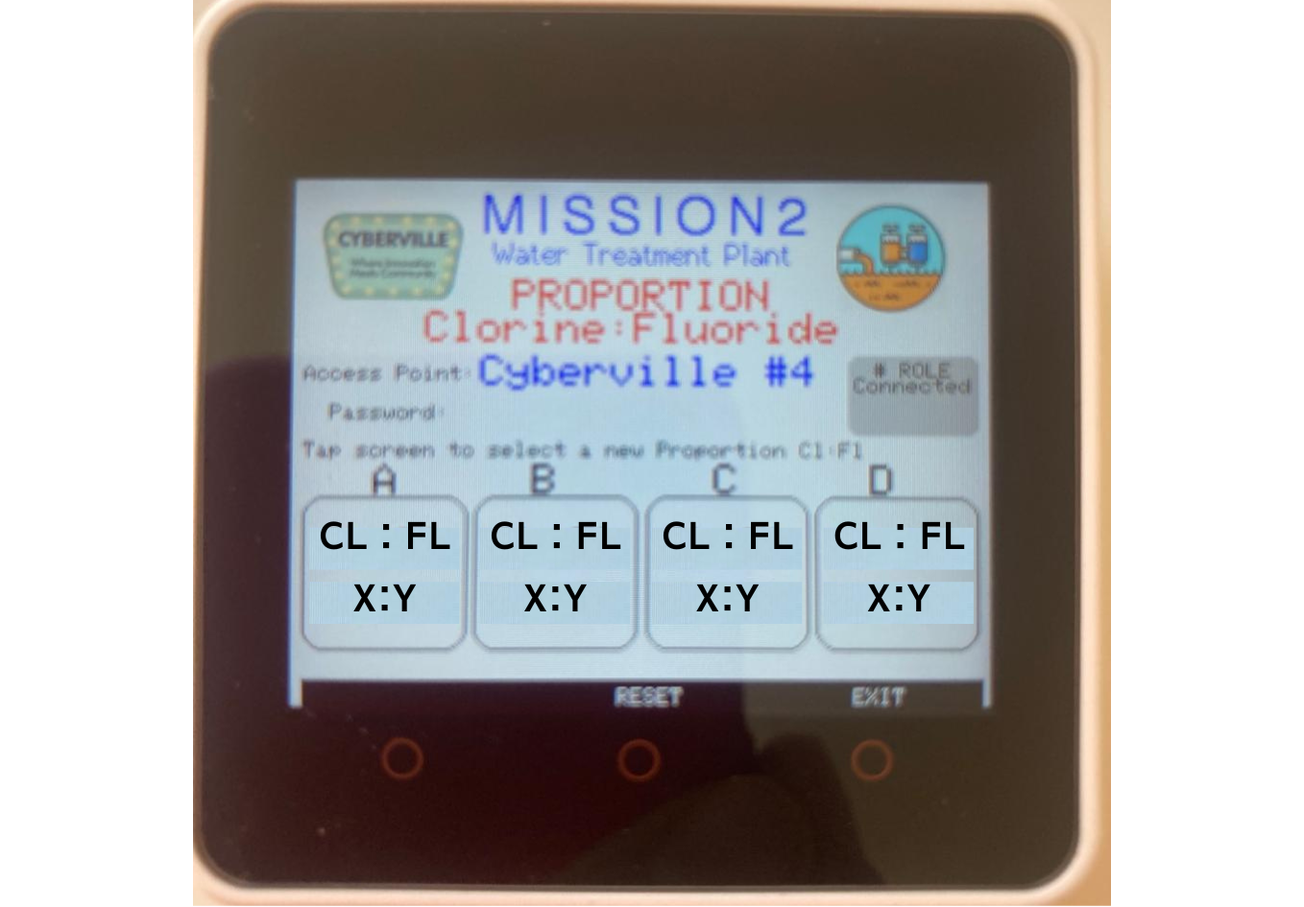
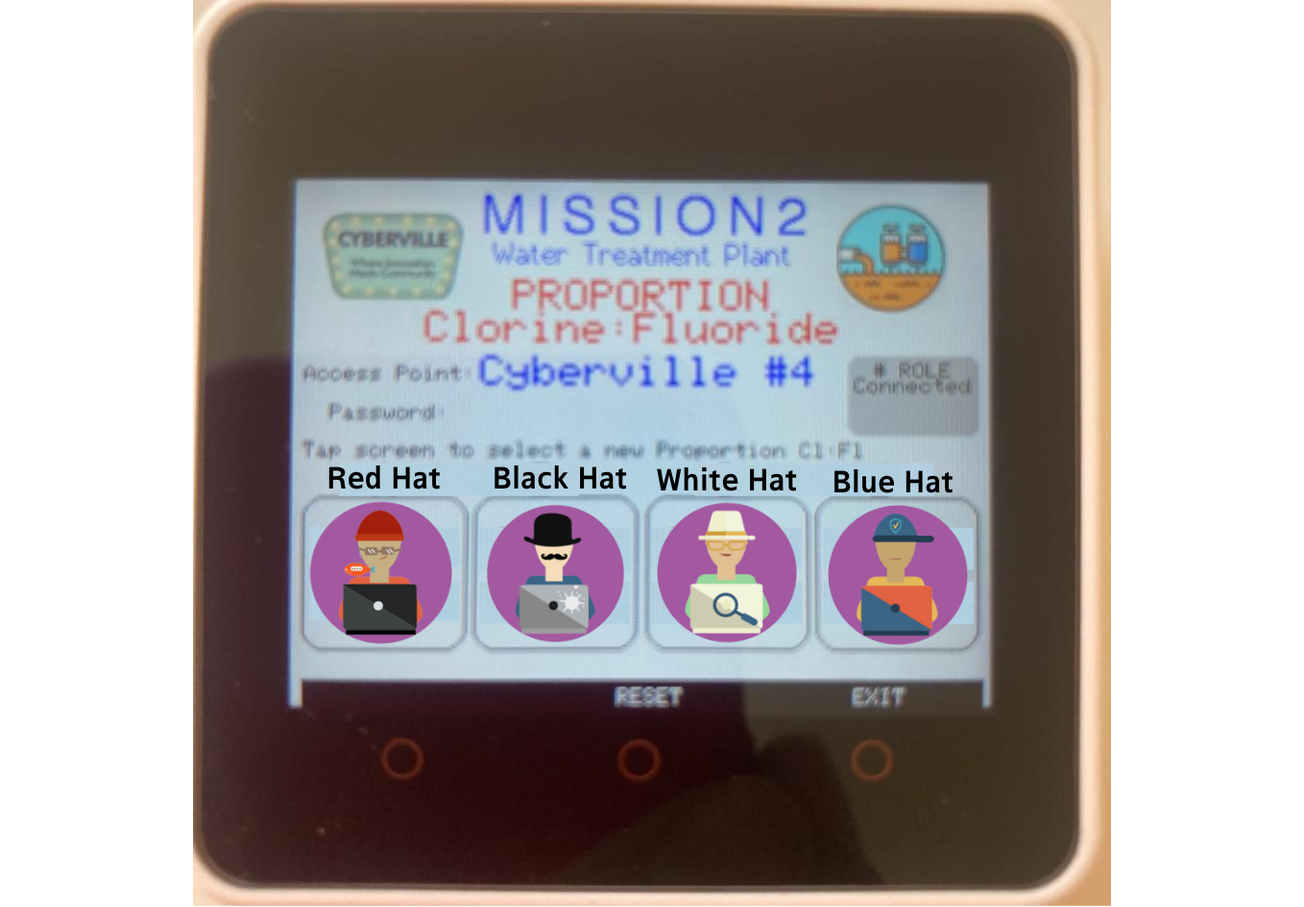
Update RSSI

Changed region(s): [[0.2165, 0.491, 0.7423, 0.7365]]

diff --git a/packaged/docs/static/mb/projects/bboard-tutorials-cyberville/ValuableData/3_Signal_Strength/README.html b/packaged/docs/static/mb/projects/bboard-tutorials-cyberville/ValuableData/3_Signal_Strength/README.html
@@ -1680,8 +1680,8 @@
 					</button>
 					
     <div class="ui text">
-        <h1 id="2_signal_strength-under-construction-">2_Signal_Strength . . . Under Construction!</h1><p>Hey there! We’re sure you’ll be really interested to know that the location of your Wi-Fi Access Point 📳 in your house is super important for cybersecurity!</p>
-<p>In this activity, we’ll have a little chat about Wi-Fi signal strength. The Received Signal Strength Indicator, or RSSI, is a handy little measurement that shows you how strong the signal is that you’re receiving.  We’ve got some great news for you! Our b.Board has a radio module and a block to read the power generated by the Access Point M5Core2 📳. Just a little heads-up: RSSI is indicated by a negative unit called dBm. The higher the number, the better the signal! But how is related to cybersecurity? Because of the Access Point 📳 in our house, we can be more or less vulnerable for our <strong><em>valuable data</em></strong>.</p>
+        <h1 id="2_signal_strength">2_Signal_Strength</h1><p>Hey there! We’re sure you’ll be really interested to know that the location of your Wi-Fi Access Point 📳 in your house is super important for cybersecurity!</p>
+<p>In this activity, we’ll have a little chat about Wi-Fi signal strength. The Received Signal Strength Indicator, or <strong>RSSI</strong>, is a handy little measurement that shows you how strong the signal is that you’re receiving.  We’ve got some great news for you! Our b.Board has a radio module and a block to read the power generated by the Access Point M5Core2 📳. Just a little heads-up: <strong>RSSI</strong> is indicated by a negative unit called dBm. The higher the number, the better the signal! But how is related to cybersecurity? Because of the Access Point 📳 in our house, we can be more or less vulnerable for our <strong><em>valuable data</em></strong>.</p>
 <p>Let’s see how that works, and don’t forget to answer the last test!</p>
 <p>We’re so excited to share some of the amazing benefits of placing your access point in the perfect spot!</p>
 <p><strong>1.</strong> Reduced signal leakage 🙉 When your access point is in the center of your home, the Wi-Fi signal is less likely to extend outside, keeping your private information safe and secure. This is great because it helps prevent people you don’t know, like your neighbors or even people with bad intentions, from detecting and trying to access your network.</p>
@@ -1690,16 +1690,17 @@
 <p><strong>4.</strong> Another great benefit of a centrally located access point 🐵 is that it makes it easier to monitor your entire network for any suspicious activity. This is because it can track connections across the whole area of coverage more effectively.</p>
 <p><strong>5.</strong> Secure guest network management 🔧🐒 by placing your access point in a central spot, you can easily manage your guest networks with confidence. This way, your guests can stay connected within a controlled area of your home, while you relax knowing they won’t access any sensitive parts of your internal network.</p>
 <h2 id="activity">Activity</h2><h3 id="-teachers">🧑🏫  <strong><em>Teachers</em></strong></h3><p>It is the responsibility of the teaching staff to provide students with an Access Point 📳 using the M5Core2 module for this activity. The Networking activity is the most appropriate choice as it requires only the creation of an Access Point 📳.
-It is also necessary to share with the students the following information regarding <strong>RSSI</strong> and signal strength.</p>
-<p></p>
-<p>To determine the strength of the signal in Cyberville, the teacher 🧑🏫 should walk out of the classroom or away from the b.boards.
-Students 🧑🎓 will read the signal strength based on their code.</p>
-<h3 id="-students-">🧑🎓 <strong>Students:</strong></h3><p><strong>1.</strong> Connect to the WiFi access point M5Core2 📳. The teacher must provide the AP name and password. Use the <em>Connect to WiFi</em> block. Remember, it should looks like this (✅ on screen b.Board):
-<img class="ui image" src="https://github.com/Brilliant-Labs/code.bl/blob/code_alpha/packaged/docs/static/mb/projects/bboard-tutorials-cyberville/Networking/1_Connecting/Connected_gif.gif?raw=true" alt="Connected_gif" title="Connected_gif" loading="lazy"><br>If you got a small <strong>x</strong> (❎ on screen b.Board), you are <strong><em>NOT</em></strong> connected.   </p>
+It is also necessary to share with the students the following information regarding <strong>RSSI</strong> and signal strength.
+ 
+To determine the strength of the signal in Cyberville, the teacher 🧑🏫 should walk out of the classroom or away from the b.boards.
+Students 🧑🎓 will read the signal strength based on their code, and Teacher’s location with the M5Core2.</p>
+<h3 id="-students">🧑🎓 <strong><em>Students</em></strong></h3><p><strong>1.</strong> Connect to the WiFi access point M5Core2 📳. The teacher must provide the AP name and password. Use the <em>Connect to WiFi</em> block. Remember, it should looks like this (✅ on screen b.Board):
+<img class="ui image" src="https://github.com/Brilliant-Labs/code.bl/blob/code_alpha/packaged/docs/static/mb/projects/bboard-tutorials-cyberville/Networking/1_Connecting/Connected_gif.gif?raw=true" alt="Connected_gif" title="Connected_gif" loading="lazy">  </p>
+<p>If you got a small <strong>x</strong> (❎ on screen b.Board), you are <strong><em>NOT</em></strong> connected.   </p>
 <p><strong>2.</strong> Use a block <em>on button A pressed</em>, inside add a <em>show string ()</em> block </p>
 <p><strong>3.</strong> Find the <em>Get the signal Strength</em> block in Cybersecurity blocks, and use it replacing the <em>hello!</em> word in Show String block.</p>
 <p><strong>4.</strong> Get the <strong>RSSI</strong> level and check how strong is the signal according to the Access Point 📳 location, get your own conclusion about the better plase to get a strong signal.</p>
-<p><strong>5.</strong> Let’s say this is your house… Where will you place your access point 📳 to protect your <strong>valuable data</strong>? __*<a target="_blank" rel="nofollow noopener" href="https://www.canva.com/design/DAGNuhZm2tc/EVbHU526nmgqkNacx0i0iQ/view?utm_content=DAGNuhZm2tc&amp;utm_campaign=designshare&amp;utm_medium=link&amp;utm_source=editor">Download</a> the planes.</p>
+<p><strong>5.</strong> Let’s say this is your house… Where will you place your Access Point 📳 to protect your <strong>valuable data</strong>? <a target="_blank" rel="nofollow noopener" href="https://www.canva.com/design/DAGNuhZm2tc/EVbHU526nmgqkNacx0i0iQ/view?utm_content=DAGNuhZm2tc&amp;utm_campaign=designshare&amp;utm_medium=link&amp;utm_source=editor">Download</a>, and print the planes.</p>
 <p></p>
 <p></p>
 <h2 id="code-example">Code Example</h2><p>You can <strong>download</strong> an example code for this activity in this web site: <code>https://alpha.brilliantlabs.ca/documents/cybersec/Cyber-Security-Activity-8.hex</code></p>

diff --git a/packaged/docs/static/mb/projects/bboard-tutorials-cyberville/ValuableData/2_Get_Reliable_Information/README.html b/packaged/docs/static/mb/projects/bboard-tutorials-cyberville/ValuableData/2_Get_Reliable_Information/README.html
@@ -1685,9 +1685,9 @@
 <p><strong>🧪 Fluoride</strong> is often added to drinking water to prevent tooth decay. The optimal concentration of <strong>🧪 Fluoride</strong> in drinking water is usually around 0.7 to 1.2 mg/L, although this can vary depending on local regulations and recommendations.</p>
 <p>The ratio of <strong>🧪 Chlorine</strong> to <strong>🧪 Fluoride</strong> would then depend on the specific concentrations used in the treatment process, and it’s not necessarily a fixed ratio. In some cases, there might not even be a direct correlation between the two as they serve different purposes in water treatment.</p>
 <p>The ratio of <strong>🧪Chlorine</strong> to <strong>🧪Fluoride</strong> in treated water can vary depending on several factors including the specific requirements of the water treatment facility, local regulations, and the source water quality.</p>
-<p>Students and teachers, we just wanted to remind you that it’s important to choose a true and reliable source of information on Cyberville network. The web sites provided for this activity are not real, but student should be choose the best and reliable information to obtain the right ratio according to the information, Not all the information is reliable and you can fail in the try!! Be careful with the information that you select. Have fun!!</p>
+<p>Students 🧑🎓 and teachers 🧑🏫, we just wanted to remind you that it’s important to choose a true and <strong><em>reliable source of information</em></strong> on Cyberville network. The web sites provided for this activity are not real, but student should be choose the best and reliable information to obtain the right ratio according to the information, and no expose your <strong><em>valuable information</em></strong>, Not all the information is reliable and you can fail in the try!! Be careful with the information that you select… and have fun!!</p>
 <p>To develop this activity follow the next steps. </p>
-<h2 id="-teachers-"><strong>🧑🏫 Teachers:</strong></h2><p>The <strong>🧑🏫 Teacher</strong> will choose between four diferent proportions on the M5Core2 screen, which will display the M5Core2 for Mission 2 as A, B, C, or D. This ratio will be secret to the 🧑🎓 students, but they can find information reliable or fake on the web site provided by the Access Point! </p>
+<h2 id="-teachers-"><strong>🧑🏫 Teachers:</strong></h2><p>The <strong>🧑🏫 Teacher</strong> will choose between four diferent sources of information on the M5Core2 screen, which will display the M5Core2 for Mission 2 as Red Hat, Black Hat, White Hat, or Blue Hat. This seelctrion will be secret to the 🧑🎓 students, but they can find information on the webpages generated by the Access Point 📳.</p>
 <p></p>
 <p>Remember that there are three differents ways to setup passwords on M5Core2 for Cyberville network. Agree with student which password are you going to use for this activity. </p>
 <ul>
@@ -1698,14 +1698,31 @@
 <li><p><a target="_blank" rel="nofollow noopener" href="https://www.canva.com/design/DAGJhzixXtc/zuFnnSe0t3ZZR298o1uEjg/watch?utm_content=DAGJhzixXtc&amp;utm_campaign=designshare&amp;utm_medium=link&amp;utm_source=editor"><strong>Custom Password</strong></a>. We highly recommend this option to involve the students, just press middle button on M5Core2, and enter the agreed 8 characters of the password agreed between the student and the teacher, for example <strong>BL_cyb24</strong>, at the end please press the middle button again for three seconds to set it. That is all!</p>
 </li>
 </ul>
-<h2 id="-students-"><strong>🧑🎓 Students:</strong></h2><ol>
-<li>Be sure that you are connected to the Cyberville  📳 Access Point, according to the infornmation agree with the teacher.
-If you get a ✅, you are connected.<br></li>
-<li>Get some information in the web page privided by the  📳 Access Point. remember that you computer needs to be in the same Cyberville network  which it IP address is 192.168.4.1.</li>
-<li>Use your Water Plant Calibration developed in the previous activity as base of your new code.</li>
-<li>Modify the code to provied the right ratio for <strong>🧪 Chlorine</strong> and <strong>🧪 Fluoride</strong> on the water treatment plant.</li>
-<li>Obtain some clues on the webpage to get your ratio answer and send it to the  📳 Access Point to know if you fail or success for this activity.</li>
-</ol>
+<h2 id="-students-"><strong>🧑🎓 Students:</strong></h2><p><strong>1.</strong> Be sure that you are connected to the Cyberville  📳 Access Point, according to the infornmation agree with the teacher.
+If you get a ✅, you are connected.<br>
+<strong>2.</strong> Get some information in the web page provided by the Access Point 📳. Remember that you computer needs to be in the same Cyberville network.
+<strong>3.</strong> Use your Water Plant Calibration developed in the previous activity as base of your new code.
+<strong>4.</strong> Modify the code to provied the right ratio for <strong>🧪 Chlorine</strong> and <strong>🧪 Fluoride</strong> on the water treatment plant, you can see the example code below.
+<strong>5.</strong> Obtain some clues on the webpage to get your ratio answer and send it to the Access Point 📳 to know if you fail or success for this activity.</p>
+<h2 id="code-example">Code Example</h2><p>You can <strong>download</strong> an example code for this activity in this web site: <code>https://alpha.brilliantlabs.ca/documents/cybersec/Cyber-Security-Activity-8.hex</code></p>
+<p>Or use this code example to test the right ratio and save the Water Treatment Plant.</p>
+<p>Allways be sure that you are connected in the right Cyberville network, before you try a new code.</p>
+<pre><code class="lang-blocks">input.onButtonPressed(Button.A, function () {
+    for (let Count = 0; Count &lt;= 9; Count++) {
+        FL_Strip.setPixelColor(Count + (-10 + Cybersec.indexfl(Index_FL.one)), neopixel.colors(NeoPixelColors.Green))
+        CL_Strip.setPixelColor(Count + (10 - Cybersec.indexcl(Index_CL.one)), neopixel.colors(NeoPixelColors.Blue))
+    }
+    Full_Strip.show()
+    Cybersec.MissionWater(Cybersec.blixel_indexR(BLiXelIndexR.one))
+})
+let CL_Strip: neopixel.Strip = null
+let FL_Strip: neopixel.Strip = null
+let Full_Strip: neopixel.Strip = null
+Cybersec.WifiConnect(&quot;Cyberville #1&quot;, &quot;&quot;)
+Full_Strip = neopixel.create(DigitalPin.P2, 30, NeoPixelMode.RGB)
+FL_Strip = Full_Strip.range(0, 10)
+CL_Strip = Full_Strip.range(20, 10)
+</code></pre>
 
     </div>
 

diff --git a/packaged/docs/static/mb/projects/bboard-tutorials-cyberville/ValuableData/1_Water_Plant_Calibration/README.html b/packaged/docs/static/mb/projects/bboard-tutorials-cyberville/ValuableData/1_Water_Plant_Calibration/README.html
@@ -1680,42 +1680,35 @@
 					</button>
 					
     <div class="ui text">
-        <h1 id="1_valuable-data-under-construction-">1_VALUABLE DATA … Under Construction!</h1><p><strong>Valuable Data</strong> is a really important topic in Cybersecurity. It’s all about keeping and obtaining information safe and secure on a network. It’s not just about digital data, but also about making sure social, mental, and technological security for you, your parents, and your Cyberville. It’s so important to know where the information is stored, what the source is, how to find it, and try to protect it from unauthorized access and misuse. We’re here to help you with all of that!</p>
-<p>Let’s learn together about some of the most common attacks on our Valuable Data. Once we’ve done that, we’ll solve the Second Mission, “Polluted Water - Water Treatment Plant Under Attack!”</p>
+        <h1 id="1_valuable-data">1_VALUABLE DATA</h1><p><strong>Valuable Data</strong> is a really important topic in Cybersecurity. It’s all about keeping and obtaining information safe and secure on a network. It’s not just about digital data, but also about making sure social, mental, and technological security for you, your parents, and your Cyberville. It’s so important to know where the information is stored, what the source is, how to find it, and try to protect it from unauthorized access and misuse. We’re here to help you with all of that!</p>
+<p>Let’s learn together about some of the most common attacks on our <strong><em>Valuable Data</em></strong>. Once we’ve done that, we’ll solve the Second Mission, “Polluted Water - Water Treatment Plant Under Attack!”</p>
 <h2 id="activity">Activity</h2><p>Let’s start!   </p>
 <p>We’ve made it really easy for you to recreate the awesome environment from Mission 2 while learning about Cybersecurity. All you have to do is:</p>
 <p><strong>1.</strong> <a target="_blank" rel="nofollow noopener" href="https://www.canva.com/design/DAGJhxRPFpY/D54nS2FDqO65RD4bMEKsbQ/view?utm_content=DAGJhxRPFpY&amp;utm_campaign=designshare&amp;utm_medium=link&amp;utm_source=editor">Download</a>, print and cover the b.board for Mission 2.  </p>
 <p></p>
 <p><img class="ui image" src="https://github.com/Brilliant-Labs/code.bl/blob/code_alpha/packaged/docs/static/mb/projects/bboard-tutorials-cyberville/ValuableData/1_Water_Plant_Calibration/Cover_Gif_M2.gif?raw=true" alt="Cover" title="Cover for M2." loading="lazy"></p>
 <h2 id="-teachers-">🧑🏫 <strong>Teachers:</strong></h2><p>Teachers will guide the proccess to obtain the neopixel level bar from the students.</p>
-<h2 id="-students-">🧑🎓 <strong>Students:</strong></h2><p>In this example, you’ll find a suggested Water Plant Calibration environment for this activity. But don’t be afraid to get creative! You can easily recreate two bars of neopixels for 10 BLixels each, in whatever way you like. Have fun!</p>
+<h2 id="-students-">🧑🎓 <strong>Students:</strong></h2><p>In this example, you’ll find a suggested Water Plant Calibration environment for this activity. But don’t be afraid to get creative! You can easily recreate two bars of neopixels for 10 BLixels each, in whatever way you like. <em>Have fun!</em></p>
 <p><img class="ui image" src="https://github.com/Brilliant-Labs/code.bl/blob/code_alpha/packaged/docs/static/mb/projects/bboard-tutorials-cyberville/ValuableData/1_Water_Plant_Calibration/LevelBar.gif?raw=true" alt="Level_Bar" title="Level Bar." loading="lazy"></p>
 <h2 id="code-example">Code Example</h2><p>You can <strong>download</strong> the code for this activity <a target="_blank" rel="nofollow noopener" href="https://alpha.brilliantlabs.ca/documents/cybersec/Cyber-Security-Activity-7A.hex">here</a>, or you can go to download from: <code>https://alpha.brilliantlabs.ca/documents/cybersec/Cyber-Security-Activity-7A.hex</code>.</p>
-<p>Or use this code example is to connect the b.Board to M5Core2.</p>
+<p>Or use this code as example. Please pay attention that strip is connected to P2, and the levels are <strong>0 for 🧪 Chlorine</strong> and <strong>0 for 🧪 Fluoride</strong>. You should change this values according to the next activity <strong><em>“Get Reliable Information”</em></strong>.</p>
 <pre><code class="lang-blocks">input.onButtonPressed(Button.A, function () {
-    General_Strip.clear()
-    General_Strip.show()
-    for (let Cont1 = 0; Cont1 &lt;= 9; Cont1++) {
-        CL_Strip.setPixelColor(Cont1 + (-10 + 5), neopixel.colors(NeoPixelColors.Blue))
+    for (let Count = 0; Count &lt;= 9; Count++) {
+        FL_Strip.setPixelColor(Count + (-10 + Flouride), neopixel.colors(NeoPixelColors.Green))
+        CL_Strip.setPixelColor(Count + (10 - Chloride), neopixel.colors(NeoPixelColors.Blue))
     }
-    CL_Strip.show()
-    for (let Cont2 = 0; Cont2 &lt;= 9; Cont2++) {
-        FL_Strip.setPixelColor(Cont2 + (10 - 5), neopixel.colors(NeoPixelColors.Green))
-    }
-    FL_Strip.show()
+    Full_Strip.show()
 })
-input.onLogoEvent(TouchButtonEvent.Pressed, function () {
-    CL_Strip.clear()
-    CL_Strip.show()
-    FL_Strip.clear()
-    FL_Strip.show()
-})
-let FL_Strip: neopixel.Strip = null
+let Chloride = 0
+let Flouride = 0
 let CL_Strip: neopixel.Strip = null
-let General_Strip: neopixel.Strip = null
-General_Strip = neopixel.create(DigitalPin.P2, 30, NeoPixelMode.RGB)
-CL_Strip = General_Strip.range(0, 10)
-FL_Strip = General_Strip.range(20, 10)</code></pre>
+let FL_Strip: neopixel.Strip = null
+let Full_Strip: neopixel.Strip = null
+Full_Strip = neopixel.create(DigitalPin.P2, 30, NeoPixelMode.RGB)
+FL_Strip = Full_Strip.range(0, 10)
+CL_Strip = Full_Strip.range(20, 10)
+Flouride = 0
+Chloride = 0</code></pre>
 
     </div>
 

diff --git a/packaged/docs/static/mb/projects/bboard-tutorials-cyberville/ValuableData/2_Get_Reliable_Information/README.md b/packaged/docs/static/mb/projects/bboard-tutorials-cyberville/ValuableData/2_Get_Reliable_Information/README.md
@@ -10,15 +10,16 @@ The ratio of __🧪 Chlorine__ to __🧪 Fluoride__ would then depend on the spe
 
 The ratio of __🧪Chlorine__ to __🧪Fluoride__ in treated water can vary depending on several factors including the specific requirements of the water treatment facility, local regulations, and the source water quality.
 
-Students and teachers, we just wanted to remind you that it's important to choose a true and reliable source of information on Cyberville network. The web sites provided for this activity are not real, but student should be choose the best and reliable information to obtain the right ratio according to the information, Not all the information is reliable and you can fail in the try!! Be careful with the information that you select. Have fun!!
+Students 🧑🎓 and teachers 🧑🏫, we just wanted to remind you that it's important to choose a true and __*reliable source of information*__ on Cyberville network. The web sites provided for this activity are not real, but student should be choose the best and reliable information to obtain the right ratio according to the information, and no expose your __*valuable information*__, Not all the information is reliable and you can fail in the try!! Be careful with the information that you select... and have fun!!
 
 To develop this activity follow the next steps. 
 
 ## __🧑🏫 Teachers:__
 
-The __🧑🏫 Teacher__ will choose between four diferent proportions on the M5Core2 screen, which will display the M5Core2 for Mission 2 as A, B, C, or D. This ratio will be secret to the 🧑🎓 students, but they can find information reliable or fake on the web site provided by the Access Point! 
+The __🧑🏫 Teacher__ will choose between four diferent sources of information on the M5Core2 screen, which will display the M5Core2 for Mission 2 as Red Hat, Black Hat, White Hat, or Blue Hat. This seelctrion will be secret to the 🧑🎓 students, but they can find information on the webpages generated by the Access Point 📳.
 
-<img src="https://github.com/Brilliant-Labs/code.bl/blob/code_alpha/packaged/docs/static/mb/projects/bboard-tutorials-cyberville/ValuableData/2_Get_Reliable_Information/M2_M5core2.png?raw=true" alt="M2" title="Mission 2 in M5Core2" width="300" />
+<img src="https://github.com/Brilliant-Labs/code.bl/blob/code_alpha/packaged/docs/static/mb/projects/bboard-tutorials-cyberville/ValuableData/2_Get_Reliable_Information/M2_M5core2.png?raw=true" alt="M2" title="Mission 2 in M5Core2" width="450" />
+
 
 Remember that there are three differents ways to setup passwords on M5Core2 for Cyberville network. Agree with student which password are you going to use for this activity. 
 
@@ -31,10 +32,37 @@ Remember that there are three differents ways to setup passwords on M5Core2 for 
 
 ## __🧑🎓 Students:__
 
-1. Be sure that you are connected to the Cyberville  📳 Access Point, according to the infornmation agree with the teacher.
+__1.__ Be sure that you are connected to the Cyberville  📳 Access Point, according to the infornmation agree with the teacher.
 If you get a ✅, you are connected.  
 <img src="https://github.com/Brilliant-Labs/code.bl/blob/code_alpha/packaged/docs/static/mb/projects/bboard-tutorials-cyberville/Networking/1_Connecting/Connected_gif.gif?raw=true" alt="Connected_gif" title="If you get a ✅, you are connected to Access Point" width="300" />
-2. Get some information in the web page privided by the  📳 Access Point. remember that you computer needs to be in the same Cyberville network  which it IP address is 192.168.4.1.
-3. Use your Water Plant Calibration developed in the previous activity as base of your new code.
-4. Modify the code to provied the right ratio for __🧪 Chlorine__ and __🧪 Fluoride__ on the water treatment plant.
-5. Obtain some clues on the webpage to get your ratio answer and send it to the  📳 Access Point to know if you fail or success for this activity.
+__2.__ Get some information in the web page provided by the Access Point 📳. Remember that you computer needs to be in the same Cyberville network.
+__3.__ Use your Water Plant Calibration developed in the previous activity as base of your new code.
+__4.__ Modify the code to provied the right ratio for __🧪 Chlorine__ and __🧪 Fluoride__ on the water treatment plant, you can see the example code below.
+__5.__ Obtain some clues on the webpage to get your ratio answer and send it to the Access Point 📳 to know if you fail or success for this activity.
+
+## Code Example
+
+You can __download__ an example code for this activity in this web site: `https://alpha.brilliantlabs.ca/documents/cybersec/Cyber-Security-Activity-8.hex`
+
+Or use this code example to test the right ratio and save the Water Treatment Plant.
+
+Allways be sure that you are connected in the right Cyberville network, before you try a new code.
+
+```blocks
+input.onButtonPressed(Button.A, function () {
+    for (let Count = 0; Count <= 9; Count++) {
+        FL_Strip.setPixelColor(Count + (-10 + Cybersec.indexfl(Index_FL.one)), neopixel.colors(NeoPixelColors.Green))
+        CL_Strip.setPixelColor(Count + (10 - Cybersec.indexcl(Index_CL.one)), neopixel.colors(NeoPixelColors.Blue))
+    }
+    Full_Strip.show()
+    Cybersec.MissionWater(Cybersec.blixel_indexR(BLiXelIndexR.one))
+})
+let CL_Strip: neopixel.Strip = null
+let FL_Strip: neopixel.Strip = null
+let Full_Strip: neopixel.Strip = null
+Cybersec.WifiConnect("Cyberville #1", "")
+Full_Strip = neopixel.create(DigitalPin.P2, 30, NeoPixelMode.RGB)
+FL_Strip = Full_Strip.range(0, 10)
+CL_Strip = Full_Strip.range(20, 10)
+
+```

diff --git a/packaged/docs/static/mb/projects/bboard-tutorials-cyberville/ValuableData/3_Signal_Strength/README.md b/packaged/docs/static/mb/projects/bboard-tutorials-cyberville/ValuableData/3_Signal_Strength/README.md
@@ -1,8 +1,8 @@
-# 2_Signal_Strength . . . Under Construction!
+# 2_Signal_Strength
 
 Hey there! We're sure you'll be really interested to know that the location of your Wi-Fi Access Point 📳 in your house is super important for cybersecurity!
 
-In this activity, we'll have a little chat about Wi-Fi signal strength. The Received Signal Strength Indicator, or RSSI, is a handy little measurement that shows you how strong the signal is that you're receiving.  We've got some great news for you! Our b.Board has a radio module and a block to read the power generated by the Access Point M5Core2 📳. Just a little heads-up: RSSI is indicated by a negative unit called dBm. The higher the number, the better the signal! But how is related to cybersecurity? Because of the Access Point 📳 in our house, we can be more or less vulnerable for our __*valuable data*__.
+In this activity, we'll have a little chat about Wi-Fi signal strength. The Received Signal Strength Indicator, or __RSSI__, is a handy little measurement that shows you how strong the signal is that you're receiving.  We've got some great news for you! Our b.Board has a radio module and a block to read the power generated by the Access Point M5Core2 📳. Just a little heads-up: __RSSI__ is indicated by a negative unit called dBm. The higher the number, the better the signal! But how is related to cybersecurity? Because of the Access Point 📳 in our house, we can be more or less vulnerable for our __*valuable data*__.
 
 Let's see how that works, and don't forget to answer the last test!
 
@@ -23,15 +23,14 @@ __5.__ Secure guest network management 🔧🐒 by placing your access point in 
 ### 🧑🏫  __*Teachers*__
 It is the responsibility of the teaching staff to provide students with an Access Point 📳 using the M5Core2 module for this activity. The Networking activity is the most appropriate choice as it requires only the creation of an Access Point 📳.
 It is also necessary to share with the students the following information regarding __RSSI__ and signal strength.
-
-<img src="https://github.com/Brilliant-Labs/code.bl/blob/code_alpha/packaged/docs/static/mb/projects/bboard-tutorials-cyberville/ValuableData/3_Signal_Strength/RSSI.png?raw=true" alt="RSSI" title="RSSI" width="450" />
-
+<img src="https://github.com/Brilliant-Labs/code.bl/blob/code_alpha/packaged/docs/static/mb/projects/bboard-tutorials-cyberville/ValuableData/3_Signal_Strength/RSSI.png?raw=true" alt="RSSI" title="RSSI" width="450" /> 
 To determine the strength of the signal in Cyberville, the teacher 🧑🏫 should walk out of the classroom or away from the b.boards.
-Students 🧑🎓 will read the signal strength based on their code.
+Students 🧑🎓 will read the signal strength based on their code, and Teacher's location with the M5Core2.
 
-### 🧑🎓 __Students:__
+### 🧑🎓 __*Students*__
 __1.__ Connect to the WiFi access point M5Core2 📳. The teacher must provide the AP name and password. Use the *Connect to WiFi* block. Remember, it should looks like this (✅ on screen b.Board):
 ![Connected_gif](https://github.com/Brilliant-Labs/code.bl/blob/code_alpha/packaged/docs/static/mb/projects/bboard-tutorials-cyberville/Networking/1_Connecting/Connected_gif.gif?raw=true "Connected_gif")  
+
 If you got a small __x__ (❎ on screen b.Board), you are __*NOT*__ connected.   
   
 __2.__ Use a block *on button A pressed*, inside add a *show string ()* block 
@@ -40,12 +39,11 @@ __3.__ Find the *Get the signal Strength* block in Cybersecurity blocks, and use
 
 __4.__ Get the __RSSI__ level and check how strong is the signal according to the Access Point 📳 location, get your own conclusion about the better plase to get a strong signal.
 
-__5.__ Let's say this is your house... Where will you place your access point 📳 to protect your __valuable data__? __*[Download](https://www.canva.com/design/DAGNuhZm2tc/EVbHU526nmgqkNacx0i0iQ/view?utm_content=DAGNuhZm2tc&utm_campaign=designshare&utm_medium=link&utm_source=editor) the planes.
+__5.__ Let's say this is your house... Where will you place your Access Point 📳 to protect your __valuable data__? [Download](https://www.canva.com/design/DAGNuhZm2tc/EVbHU526nmgqkNacx0i0iQ/view?utm_content=DAGNuhZm2tc&utm_campaign=designshare&utm_medium=link&utm_source=editor), and print the planes.
 
 <img src="https://github.com/Brilliant-Labs/code.bl/blob/code_alpha/packaged/docs/static/mb/projects/bboard-tutorials-cyberville/ValuableData/3_Signal_Strength/House1.png?raw=true" alt="House1" title="House1" width="450" />
 
 <img src="https://github.com/Brilliant-Labs/code.bl/blob/code_alpha/packaged/docs/static/mb/projects/bboard-tutorials-cyberville/ValuableData/3_Signal_Strength/House2.png?raw=true" alt="House2" title="House2" width="450" />
-
 
 ## Code Example
 

diff --git a/packaged/docs/static/mb/projects/bboard-tutorials-cyberville/ValuableData/1_Water_Plant_Calibration/README.md b/packaged/docs/static/mb/projects/bboard-tutorials-cyberville/ValuableData/1_Water_Plant_Calibration/README.md
@@ -1,8 +1,8 @@
-# 1_VALUABLE DATA ... Under Construction!
+# 1_VALUABLE DATA
 
 __Valuable Data__ is a really important topic in Cybersecurity. It's all about keeping and obtaining information safe and secure on a network. It's not just about digital data, but also about making sure social, mental, and technological security for you, your parents, and your Cyberville. It's so important to know where the information is stored, what the source is, how to find it, and try to protect it from unauthorized access and misuse. We're here to help you with all of that!
 
-Let's learn together about some of the most common attacks on our Valuable Data. Once we've done that, we'll solve the Second Mission, "Polluted Water - Water Treatment Plant Under Attack!"
+Let's learn together about some of the most common attacks on our __*Valuable Data*__. Once we've done that, we'll solve the Second Mission, "Polluted Water - Water Treatment Plant Under Attack!"
 
 ## Activity
 Let's start!   
@@ -22,7 +22,7 @@ Teachers will guide the proccess to obtain the neopixel level bar from the stude
 
 ## 🧑🎓 __Students:__
 
-In this example, you'll find a suggested Water Plant Calibration environment for this activity. But don't be afraid to get creative! You can easily recreate two bars of neopixels for 10 BLixels each, in whatever way you like. Have fun!
+In this example, you'll find a suggested Water Plant Calibration environment for this activity. But don't be afraid to get creative! You can easily recreate two bars of neopixels for 10 BLixels each, in whatever way you like. *Have fun!*
 
 ![Level_Bar](https://github.com/Brilliant-Labs/code.bl/blob/code_alpha/packaged/docs/static/mb/projects/bboard-tutorials-cyberville/ValuableData/1_Water_Plant_Calibration/LevelBar.gif?raw=true "Level Bar.")
 
@@ -31,31 +31,24 @@ In this example, you'll find a suggested Water Plant Calibration environment for
 You can __download__ the code for this activity [here](https://alpha.brilliantlabs.ca/documents/cybersec/Cyber-Security-Activity-7A.hex), or you can go to download from: `https://alpha.brilliantlabs.ca/documents/cybersec/Cyber-Security-Activity-7A.hex`.
 
 
-Or use this code example is to connect the b.Board to M5Core2.
+Or use this code as example. Please pay attention that strip is connected to P2, and the levels are __0 for 🧪 Chlorine__ and __0 for 🧪 Fluoride__. You should change this values according to the next activity __*"Get Reliable Information"*__.
 
 ```blocks
 input.onButtonPressed(Button.A, function () {
-    General_Strip.clear()
-    General_Strip.show()
-    for (let Cont1 = 0; Cont1 <= 9; Cont1++) {
-        CL_Strip.setPixelColor(Cont1 + (-10 + 5), neopixel.colors(NeoPixelColors.Blue))
+    for (let Count = 0; Count <= 9; Count++) {
+        FL_Strip.setPixelColor(Count + (-10 + Flouride), neopixel.colors(NeoPixelColors.Green))
+        CL_Strip.setPixelColor(Count + (10 - Chloride), neopixel.colors(NeoPixelColors.Blue))
     }
-    CL_Strip.show()
-    for (let Cont2 = 0; Cont2 <= 9; Cont2++) {
-        FL_Strip.setPixelColor(Cont2 + (10 - 5), neopixel.colors(NeoPixelColors.Green))
-    }
-    FL_Strip.show()
+    Full_Strip.show()
 })
-input.onLogoEvent(TouchButtonEvent.Pressed, function () {
-    CL_Strip.clear()
-    CL_Strip.show()
-    FL_Strip.clear()
-    FL_Strip.show()
-})
-let FL_Strip: neopixel.Strip = null
+let Chloride = 0
+let Flouride = 0
 let CL_Strip: neopixel.Strip = null
-let General_Strip: neopixel.Strip = null
-General_Strip = neopixel.create(DigitalPin.P2, 30, NeoPixelMode.RGB)
-CL_Strip = General_Strip.range(0, 10)
-FL_Strip = General_Strip.range(20, 10)
+let FL_Strip: neopixel.Strip = null
+let Full_Strip: neopixel.Strip = null
+Full_Strip = neopixel.create(DigitalPin.P2, 30, NeoPixelMode.RGB)
+FL_Strip = Full_Strip.range(0, 10)
+CL_Strip = Full_Strip.range(20, 10)
+Flouride = 0
+Chloride = 0
 ```
